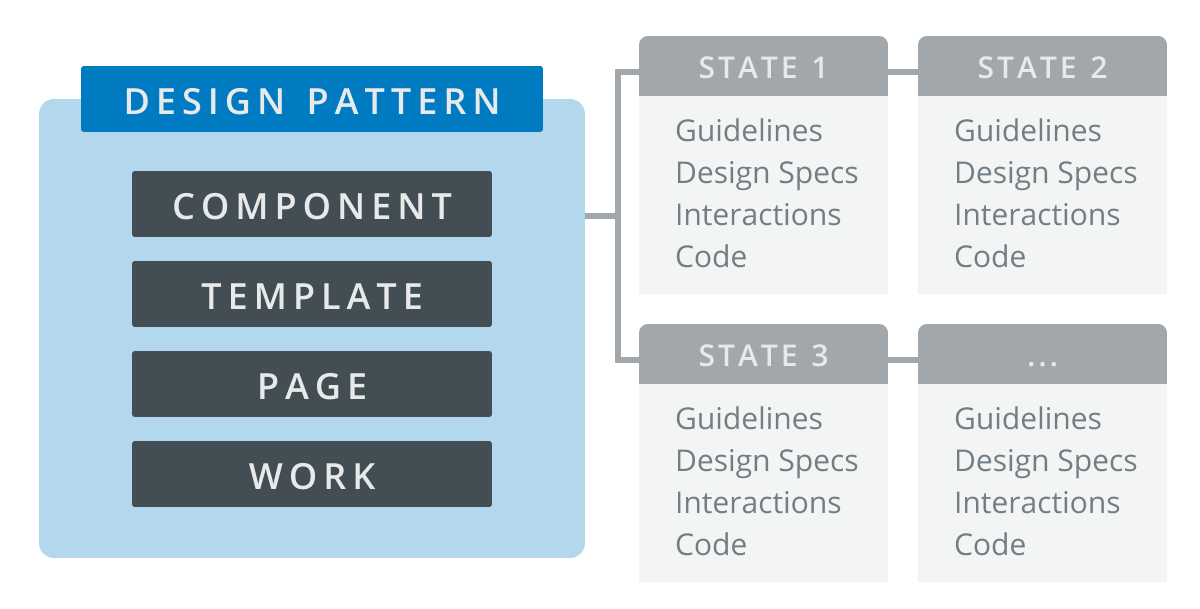
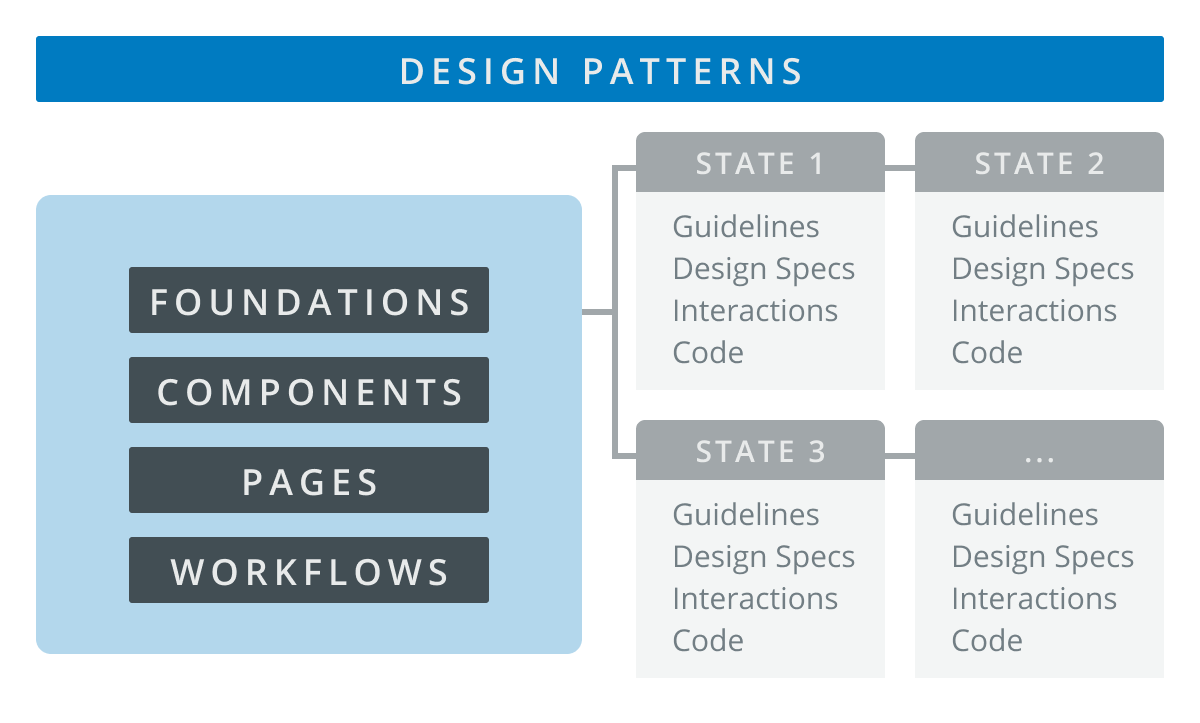
Update page content for design anatomy

diff --git a/src/__configuration__/navigationMenu/navigation.tsx b/src/__configuration__/navigationMenu/navigation.tsx
@@ -141,7 +141,6 @@ export const pageDefinitions: SimpleNavItem[] = [
                 title: 'Design Anatomy',
                 url: '/anatomy',
                 component: <MarkdownPage title={'Design System Anatomy'} markdown={Docs.Design.Anatomy} />,
-                hidden: true,
             },
         ],
     },
